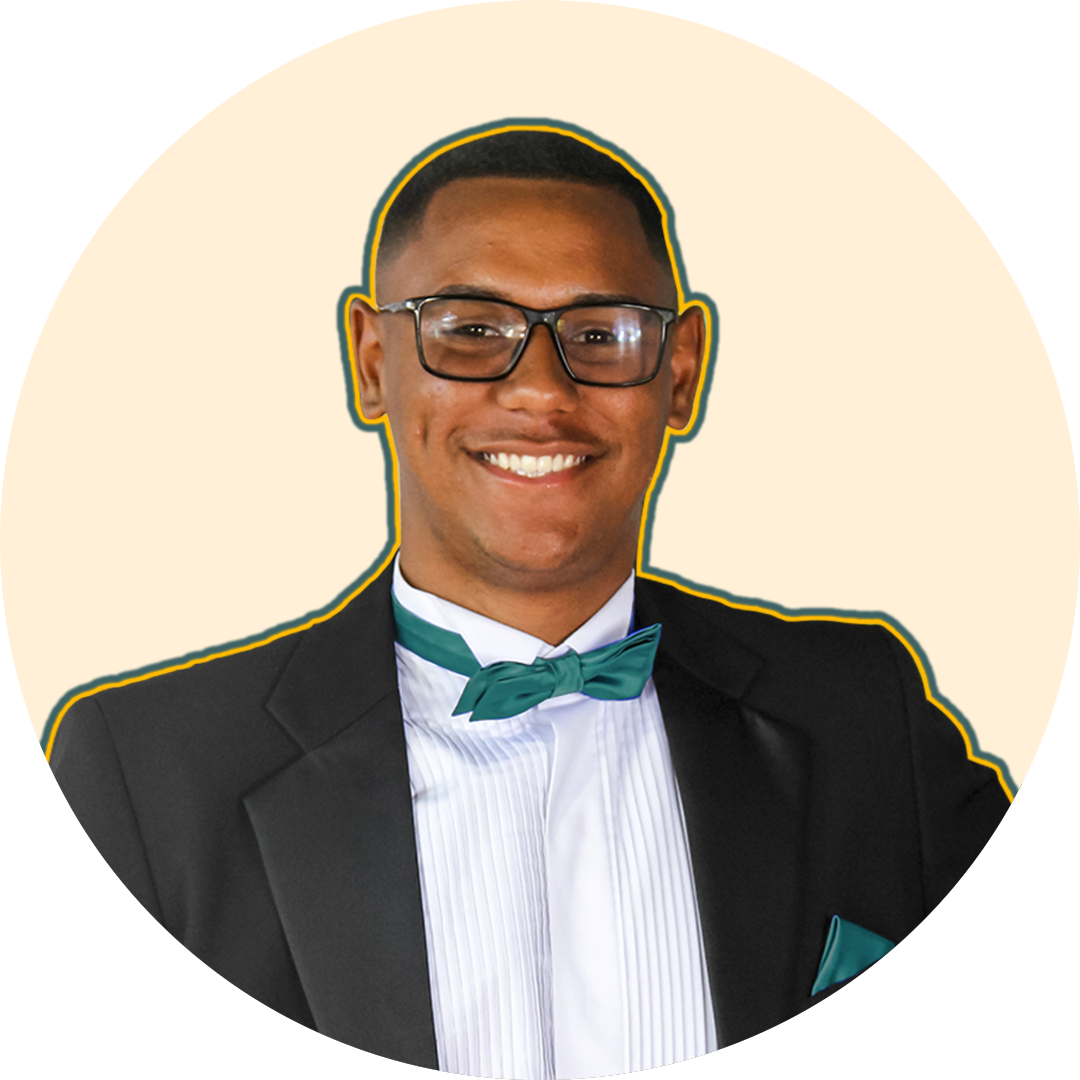
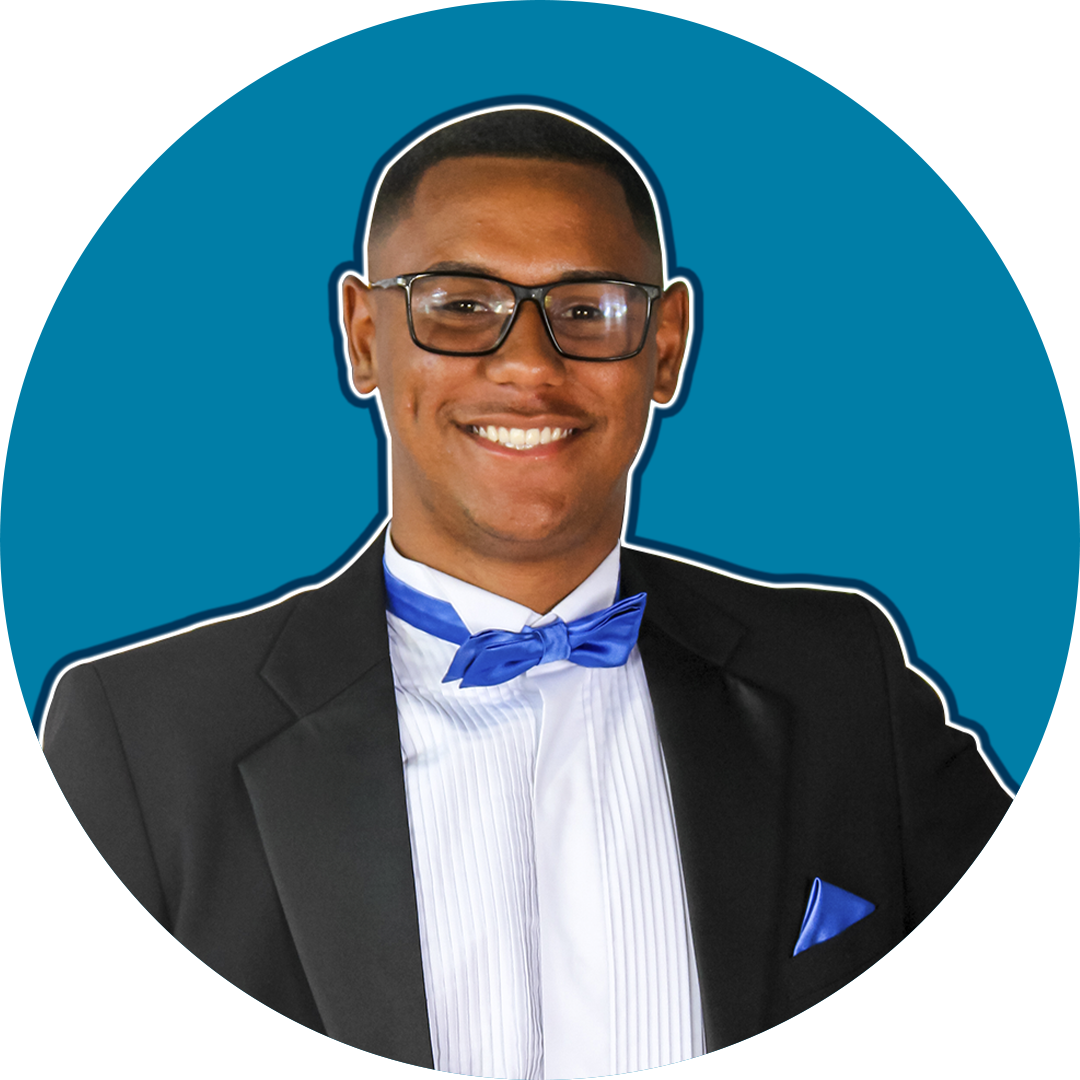
:up: Update de Cores

diff --git a/index.html b/index.html
@@ -19,7 +19,7 @@
     <aside id="bio-container">
       <h2>Erik Nathan</h2>
       <img id="bio-image" src="img/profile.png" alt="Matheus Battisti">
-      <p>Olá, meu nome é Erik Nathan e sou <span class="highlight">Desenvolvedor Web & Desginer Gráfico</span>.</p>
+      <p>Olá, meu nome é Erik Nathan e eu sou <span class="highlight">Desenvolvedor & Desginer Gráfico</span>.</p>
       <p id="welcome-text">Seja bem-vindo!</p>
       <ul id="social-container">
         <li><a href="https://www.facebook.com/erik.nathan.524/" target="_blank">
@@ -44,11 +44,10 @@
     </aside>
     <section id="about-container">
       <h1 id="name">Erik Nathan</h1>
-      <p id="title"><span class="highlight">Desenvolvedor Web & Desginer Gráfico</span></p>
+      <p id="title"><span class="highlight">Desenvolvedor & Desginer Gráfico</span></p>
       
       <p class="description">Desenvolvedor, pernambucano, apaixonado
-        por tecnologia, futebol e programação. Comecei em 2017 com o meu primeiro contato com a Lógica de Programação no meu primeiro ano de ensino médio técnico e de lá até os dia
-        hoje, venho construindo uma carreira na área de Desenvolvimento Web para mais na frente me tornar um Desenvolvedor Full-Stack!</p>
+        por tecnologia, futebol e programação. Comecei em 2017 com o meu primeiro contato com a Lógica de Programação no meu primeiro ano de ensino médio técnico e de lá até os dia hoje, venho construindo uma carreira na área de Desenvolvimento Web para mais na frente me tornar um Desenvolvedor Full-Stack</p>
 
       <p class="description">Sou Técnico em Desenvolvimento de Sistemas e Graduando em Ciências da Computação, sou
         apaixonado pela área de <span class="highlight">Programação, Tecnologia e Design.</span></p>
@@ -74,6 +73,7 @@
           <p class="skills-title">Design</p>
           <i class="devicon-photoshop-plain colored"></i>
           <i class="devicon-illustrator-plain colored"></i>
+
         </div>
         <div class="skills-box">
           <p class="skills-title">Versionamento</p>

diff --git a/style.css b/style.css
@@ -9,12 +9,12 @@
   }
   
   :root {
-    --main-color: #fea100;
+    --main-color: #00A8E8;
     --main-text-color: #FFF;
     --border-color: #dad7cd;
-    --bio-bg-color: #1e3b3d;
-    --bio-border-color: #fff0d7;
-    --about-bg-color: rgb(41, 63, 52);
+    --bio-bg-color: #011624;
+    --bio-border-color: #fff;
+    --about-bg-color: #003459;
   }
   
   /* General */
